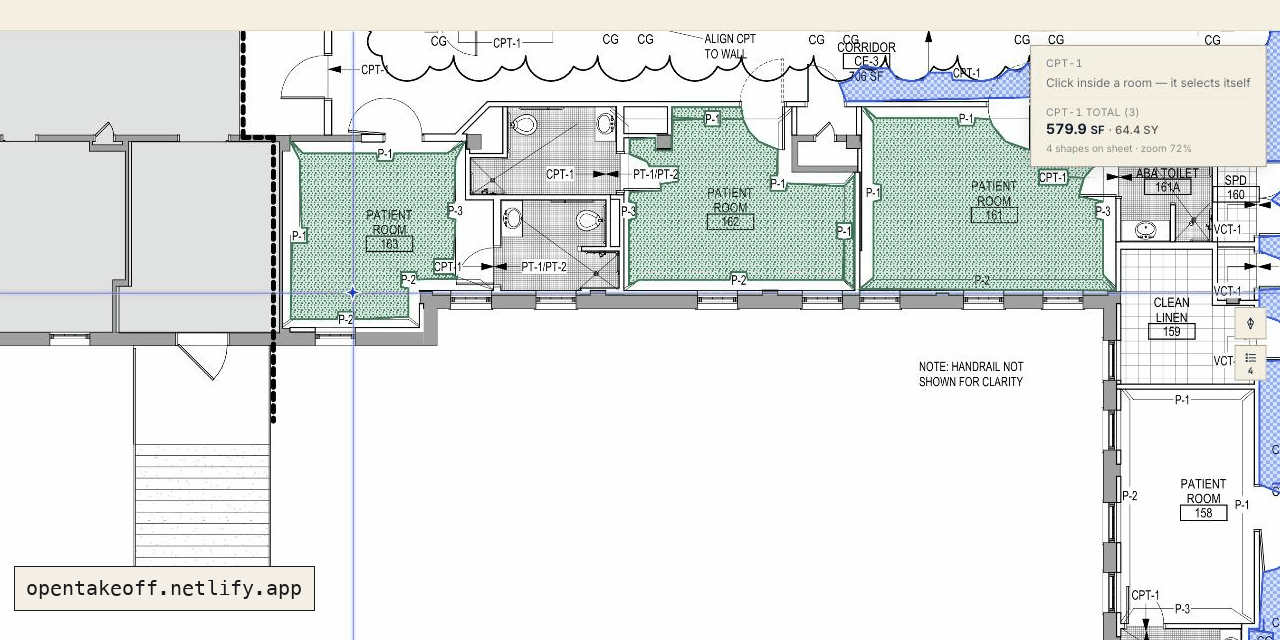
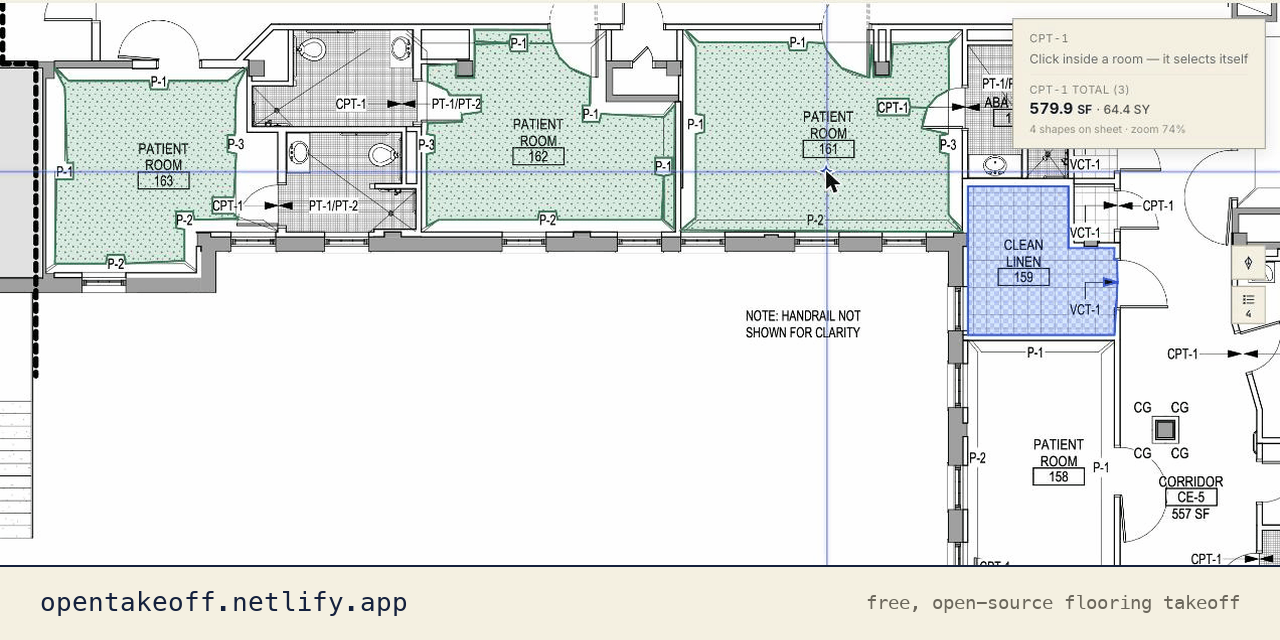
docs(imagery): re-capture hero card + One-Click GIF — rooms now trace wall to wall
The old captures pre-dated the July 5 fill fixes and showed door-swing bites
the engine no longer leaves. Re-driven from the live app on the bundled VA
plan: same three patient rooms, same 579.9 SF CPT-1 total, but every room
traces wall to wall in one click (163 → 154.6, 162 → 184.6, 161 → 240.7 SF),
plus a VCT clean-linen room for contrast. GIF retimed to four beats: idle,
aim, one click selects 240.7 SF, Enter commits. Card rebuilt at 1280×640 with
a caption band; og:image:alt and the GIF alt text follow the new scene.

diff --git a/web/index.html b/web/index.html
@@ -13,7 +13,7 @@
     <meta property="og:image" content="https://opentakeoff.netlify.app/og-card.png" />
     <meta property="og:image:width" content="1280" />
     <meta property="og:image:height" content="640" />
-    <meta property="og:image:alt" content="OpenTakeoff — three patient rooms and a corridor traced on a real floor finish plan, 579.9 SF of carpet counted." />
+    <meta property="og:image:alt" content="OpenTakeoff — three patient rooms traced wall to wall and a VCT room on a real floor finish plan, 579.9 SF of carpet counted." />
     <meta name="twitter:card" content="summary_large_image" />
     <meta name="twitter:title" content="OpenTakeoff — free, open-source flooring & construction takeoff" />
     <meta name="twitter:description" content="A free, open-source PDF takeoff canvas. Trace areas, organize by finish, export quantities — runs entirely in your browser, no account." />

diff --git a/CHANGELOG.md b/CHANGELOG.md
@@ -2,6 +2,11 @@
 
 All notable changes to OpenTakeoff. Dates are release/merge dates on `main`.
 
+## 2026-07-09
+
+### Changed
+- **Public imagery re-captured from the live app.** The old hero card and One-Click GIF pre-dated the July 5 fill fixes and showed rooms with unfilled door-swing bites — the engine has been better than its own marketing since. The new captures show what a click actually does today: the same three patient rooms on the bundled VA plan trace **wall to wall** (163 → 154.6 SF, 162 → 184.6 SF, 161 → 240.7 SF; same 579.9 SF CPT-1 total), plus a VCT clean-linen room for contrast. New `docs/img/one-click-area.gif`, `docs/img/social-card.png`, `web/public/og-card.png`; alt text updated to match.
+
 ## 2026-07-08 (later)
 
 ### Added

diff --git a/README.md b/README.md
@@ -54,7 +54,7 @@ Drag in a plan **PDF**, an **image** (a scan or a screenshot), or a whole **`.zi
 **One-Click Area** is the headline: click inside a room and the linework bounds it, the polygon traces itself, and the vertices snap to true corners. It reads the drawing the way an estimator does — **hatching and poché don't fool it**: tile grids, plank lines, and section fills are classified as pattern, not wall, so a click inside a fully hatched room still traces the room (and a misread can never make the result worse than the strict fill — it escalates only when the strict pass comes back trapped). Plus the full manual kit — **Area, Rectangle, Linear, Surface-Area (walls), Count,** and **Deduct** (for columns, voids, and openings). This is the same engine pulled out of a commercial estimating app, not a toy reimplementation.
 
 <div align="center">
-<img src="docs/img/one-click-area.gif" alt="One-Click Area on a real finish plan: one click inside a patient room and the room traces itself — 154.6 SF, committed on Enter" width="820"/>
+<img src="docs/img/one-click-area.gif" alt="One-Click Area on a real finish plan: one click inside a patient room and the whole room traces itself wall to wall — 240.7 SF, committed on Enter" width="820"/>
 </div>
 
 Manual tracing gets a real drafting aid: **45°/90° angle lock**. Come within a few degrees of square or diagonal and the segment you're drawing locks onto the axis — the click commits the locked point, so walls come out dead square (hold **⇧** to force the lock at any angle). On the canvas the crosshair **is** the cursor: the OS pointer hides, a star marks the crossing, and in-progress work draws in the instrument's own cobalt (committed shapes wear their condition color). The lock reads quietly — the star swells, the preview thickens, and a chip by the cursor shows the locked angle plus the **live segment length**. No extra chrome on your sheet.